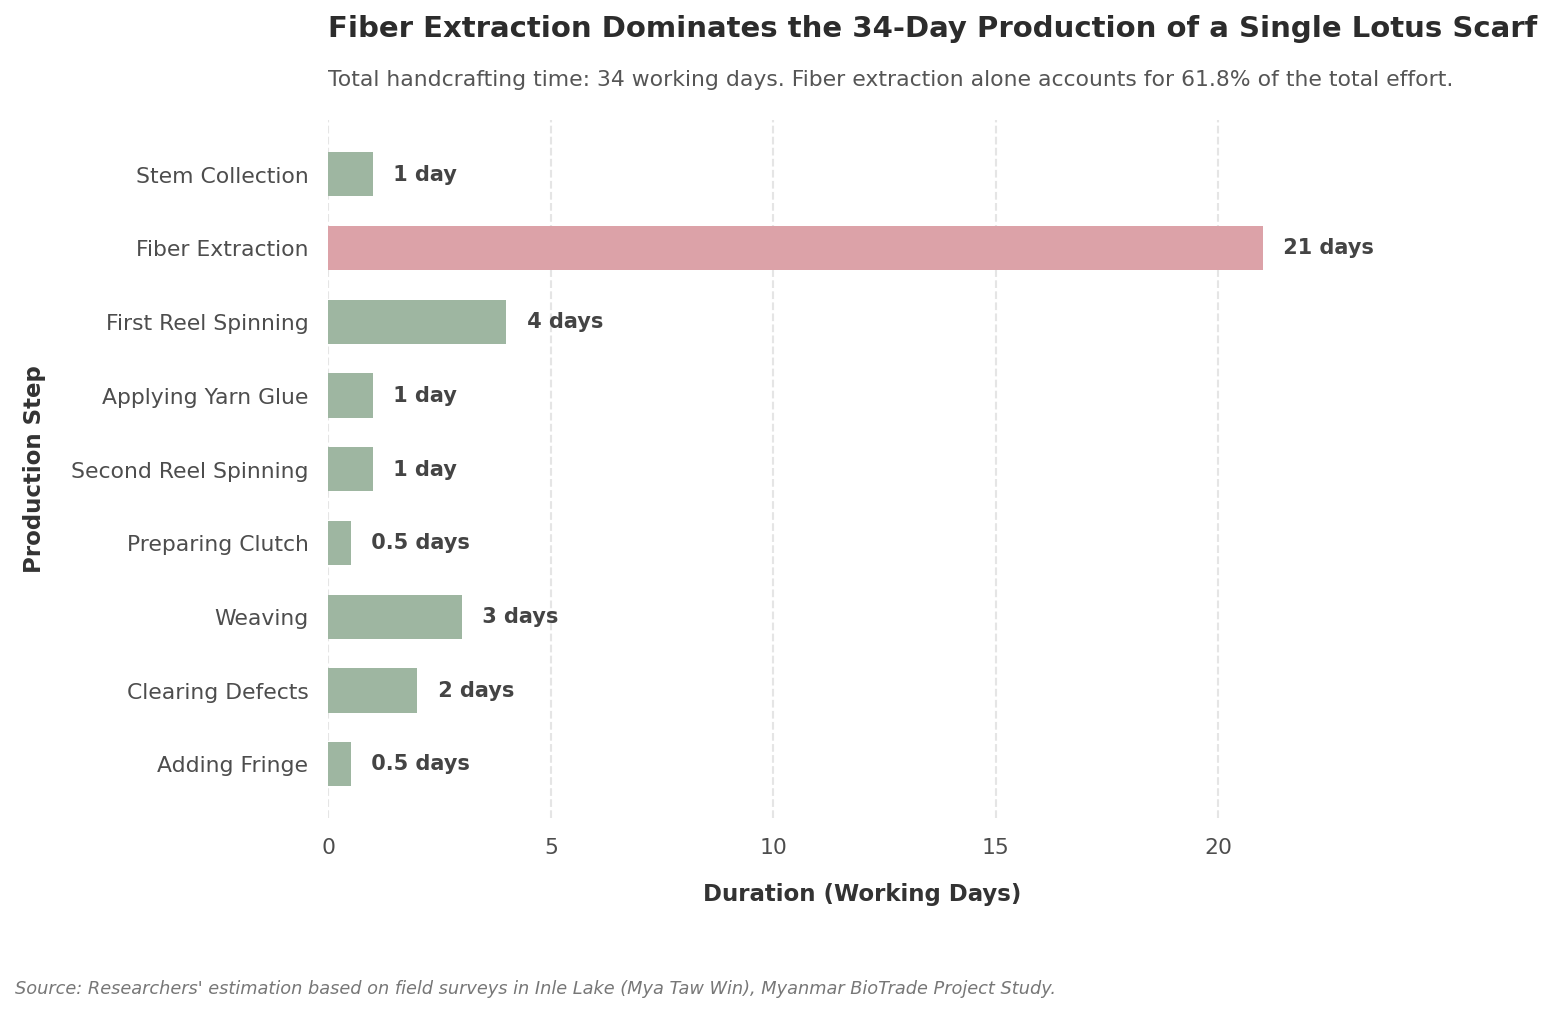
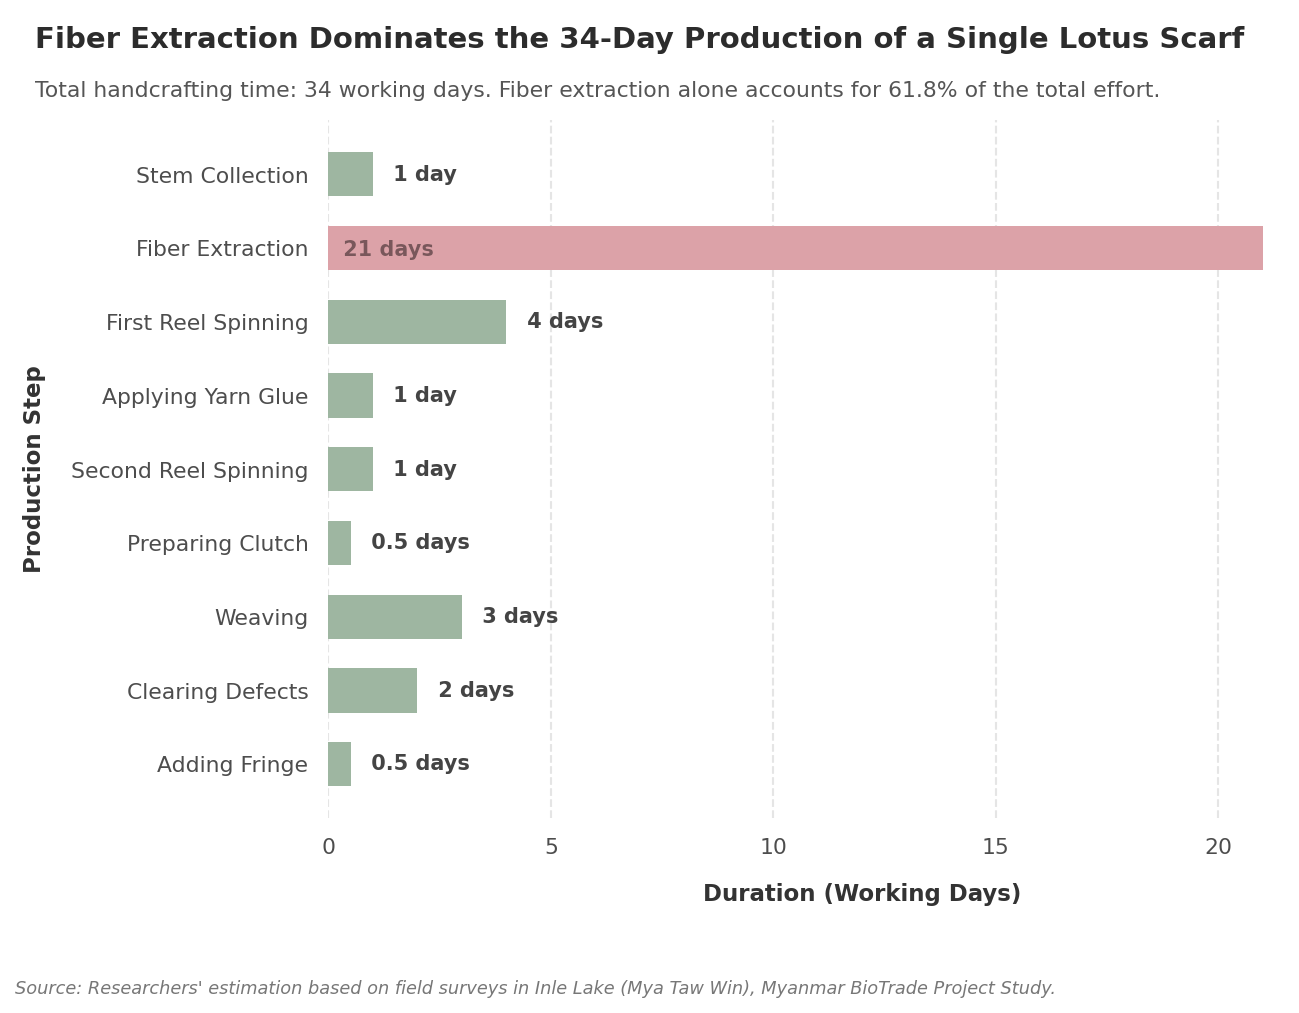
Improve and add images.

diff --git a/content/topics/lotus-fiber/companies/hope/index.md b/content/topics/lotus-fiber/companies/hope/index.md
@@ -1,6 +1,11 @@
 ---
 title: The Hope
 summary: Burmese Brand with concept store in Bangcock
+hero:
+  image: reeler.png
+  focal:
+    x: 0.4
+    "y" : 0.0
 ---
 
 - Website: [The Hope](https://www.thehope-global.com/)
@@ -8,6 +13,7 @@ summary: Burmese Brand with concept store in Bangcock
 
 ## Sources
 
--[The Hope catalog](https://static1.squarespace.com/static/672996975d64c73c51b846ea/t/69d3c205cf7e9577ac206a25/1775485445445/The+Hope+Company+Lotus+Catalogue.pdf)
-  - Bucket hat
-  - Boat in lake
+[The Hope catalog](https://static1.squarespace.com/static/672996975d64c73c51b846ea/t/69d3c205cf7e9577ac206a25/1775485445445/The+Hope+Company+Lotus+Catalogue.pdf)
+- Bucket hat
+- Boat in lake
+- Reeler reeling
